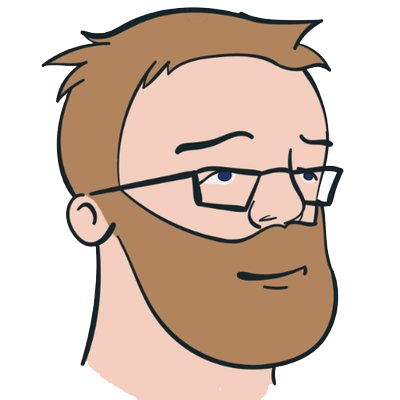
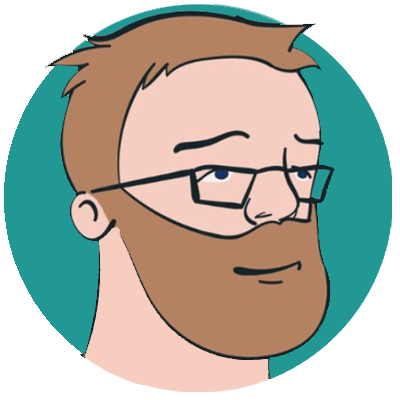
Test

diff --git a/index.html b/index.html
@@ -47,7 +47,7 @@
         <div class="container px-5 py-16 mx-auto ">
             <div class="text-center mb-20">
                                         <div
-                                            class="w-56 h-56 inline-flex  justify-center rounded-full bg-teal-600 text-teal-400  flex-shrink-0">
+                                            class="w-56 h-56 inline-flex  justify-center rounded-full  flex-shrink-0">
                                             <img class="" src="photo.png"></img>
                                         </div>
                 <h1 class="sm:text-3xl text-2xl font-medium title-font text-white mb-4">Allow me to introduce myself.
